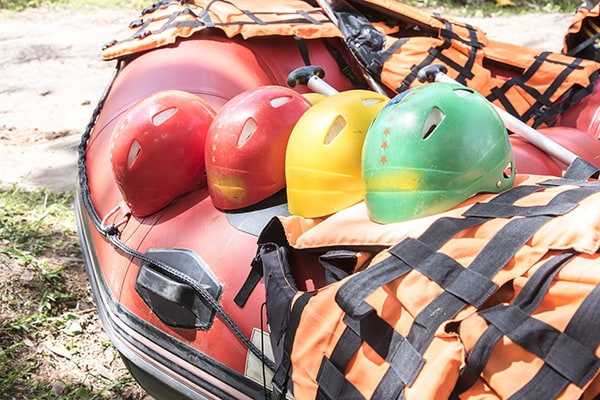
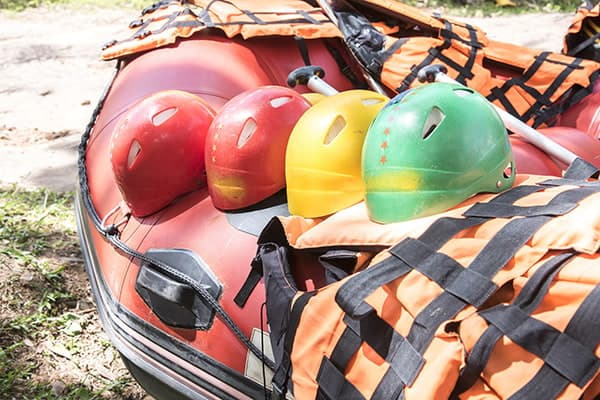
resized images and updated about html

diff --git a/wwr/about.html b/wwr/about.html
@@ -18,7 +18,8 @@
 
 <body>
     <header>
-        <img src="images/z-crossedoars.jpeg" alt="A picture of two crossed oars over a raft with the company name rapids" width="75">
+        <img src="images/z-crossedoars.jpeg"
+            alt="A picture of two crossed oars over a raft with the company name rapids" width="75">
         <nav>
             <a href="index.html">Home</a>
             <a href="about.html">About Us</a>
@@ -28,27 +29,45 @@
     </header>
     <main>
         <div class="hero">
-            <img src="images/about-us-hero-banner.jpg" alt="there are rafters here in a victory pose, they look like they have had a very nice time">
+            <img src="images/about-us-hero-banner.jpg"
+                alt="there are rafters here in a victory pose, they look like they have had a very nice time">
             <h1>Rapids</h1>
             <article>
                 <img src="images/about-us-hero.jpg" alt="another picture of very happy people after rafting">
                 <p>Lorem ipsum dolor sit, amet consectetur adipisicing elit. Dolore, quod?</p>
             </article>
         </div>
-        <section>
+        <section class="history">
             <h2>History</h2>
             <p>Lorem ipsum dolor sit amet consectetur adipisicing elit. Officia tempora debitis voluptas, laudantium
                 quasi quisquam impedit. Obcaecati hic voluptatem illum inventore, ex voluptas. Perferendis minus fugiat
                 tenetur molestias incidunt distinctio, nobis temporibus, quos adipisci consequuntur maxime voluptates
                 enim sit doloremque!</p>
         </section>
-        <section>
+        <section class="adventure">
             <h2>Adventure Awaits You!</h2>
-            <img src="images/rafting1.jpg" alt="rafting picture which depicts people flowing down the river with a man on the left watching them">
-            <img src="images/rafting2.jpg" alt="rafting picture which depicts people flowing down the river with a man on the left watching them">
-            <img src="images/rafting3.jpg" alt="a picture of 4 helmets on a raft, from left to right they are red, red, yellow, green. there are no people in the raft">
-            <img src="images/rafting4.jpg" alt="people in a yellow raft looking like they are having fun most of them have yellow helmets on but 2 people have different colors">
-            <img src="images/rafting5.jpg" alt="4 seperate rafters going down the river, they all have different color rafts and helmets on, they all look like they are having fun">
+            <div class="adventure-img">
+                <figure>
+                    <img src="images/rafting1.jpg" alt="El diablo river">
+                    <figcaption>El Diablo River</figcaption>
+                </figure>
+                <figure>
+                    <img src="images/rafting2.jpg" alt="Big Goose River">
+                    <figcaption>Big Goose River</figcaption>
+                </figure>
+                <figure>
+                    <img src="images/rafting3.jpg" alt="a picture of 4 helmets on a raft">
+                    <figcaption>Fun for Families</figcaption>
+                </figure>
+                <figure>
+                    <img src="images/rafting4.jpg" alt="people in a yellow raft looking like they are having fun">
+                    <figcaption>Great for Team Building</figcaption>
+                </figure>
+                <figure>
+                    <img src="images/rafting5.jpg" alt="4 seperate rafters going down the river">
+                    <figcaption>Local Competitions</figcaption>
+                </figure>
+            </div>
         </section>
     </main>
     <footer>

diff --git a/wwr/styles/rafting.css b/wwr/styles/rafting.css
@@ -1,8 +1,8 @@
 :root {
     --primary-color: #009FFD;
     --secondary-color: #1B4079;
-    --accent1-color: #26C485;
-    --accent2-color: #E8E9F3;
+    --accent1-color: #000000;
+    --accent2-color: #ffffff;
     --heading-font: "Oswald", sans-serif;
     --body-font: "Roboto", sans-serif;
 }
@@ -15,20 +15,26 @@
 
 body {
     font-family: var(--body-font);
-    color: var(--accent1-color);
+    color: var(--accent2-color);
 }
 
-header, main, footer {
+header,
+main,
+footer {
     width: 840px;
     margin: 0 auto;
 }
 
-h1, h2 {
+h1,
+h2 {
     font-family: var(--heading-font);
-    color: var(--primary-color);
+    color: var(--accent1-color);
 }
 
-nav, p, section, article {
+nav,
+p,
+section,
+article {
     margin: 16px;
     padding: 8px;
 }
@@ -54,7 +60,7 @@ h1 {
     padding: 16px;
     text-align: center;
     opacity: 0.7;
-    background-color: var(--primary-color);
+    background-color: var(--secondary-color);
     color: var(--accent2-color);
 }
 
@@ -64,11 +70,102 @@ article {
     right: 20px;
     bottom: 0px;
     background-color: var(--secondary-color);
-    
+
 }
 
 .hero article img {
     float: right;
     width: 125px;
     border: solid rgb(0, 0, 0, 0.2);
-    }
+}
+
+header {
+    display: grid;
+    align-items: center;
+    grid-template-columns: 1fr 1fr;
+    margin: 1rem auto;
+    border-bottom: 1px black solid;
+
+}
+
+header img {
+    margin-left: 10rem;
+    margin-bottom: 1rem;
+    width: 125px;
+    height: auto;
+}
+
+nav {
+    display: flex;
+    flex-wrap: nowrap;
+
+
+}
+
+nav a {
+    text-decoration: none;
+    display: block;
+    padding: 10px;
+    font-size: 1.2rem;
+    justify-content: space-evenly;
+    font-weight: 500;
+}
+
+.history {
+    text-align: center;
+    background-color: var(--primary-color);
+    color: var(--accent1-color);
+}
+
+.adventure {
+    text-align: center;
+    margin: 2rem auto;
+    display: flex;
+    flex-direction: column;
+    align-items: center;
+    color: var(--accent1-color);
+    background-color: var(--primary-color);
+}
+
+.adventure h2 {
+    margin-bottom: 1rem;
+}
+
+.adventure-img {
+    display: flex;
+    justify-content: space-between;
+    flex-wrap: nowrap;
+    gap: 1rem;
+    width: 100%;
+    font-weight: 700;
+
+}
+
+.adventure-img figure {
+    flex: 1;
+    margin: 0;
+    text-align: center;
+}
+
+.adventure-img img {
+    width: 100%;
+
+}
+
+footer {
+    display: flex;
+    justify-content: space-between;
+    align-items: center;
+    color: var(--accent1-color);
+}
+
+footer .socialmedia {
+    display: flex;
+    gap: 0.5rem;
+   
+}
+
+footer .socialmedia img {
+    width: 30px;
+    height: auto;
+}
